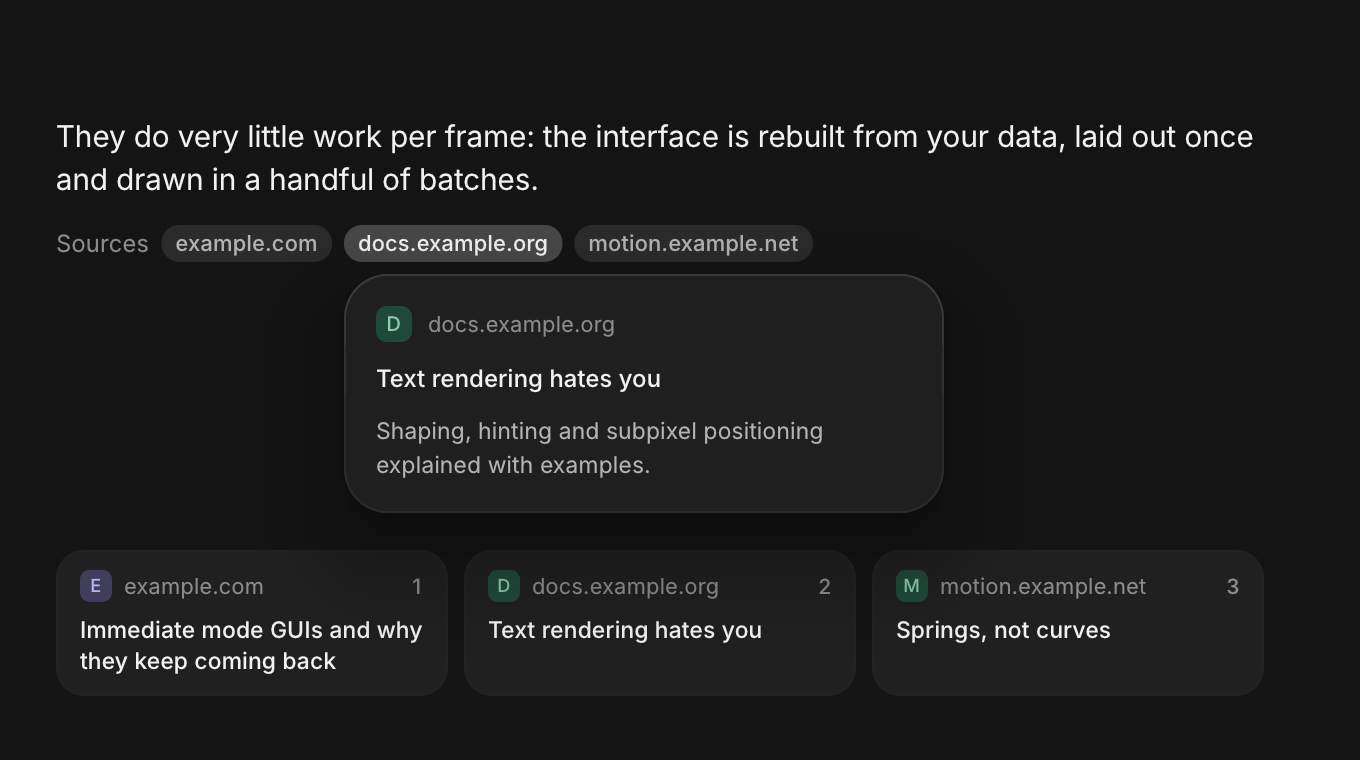
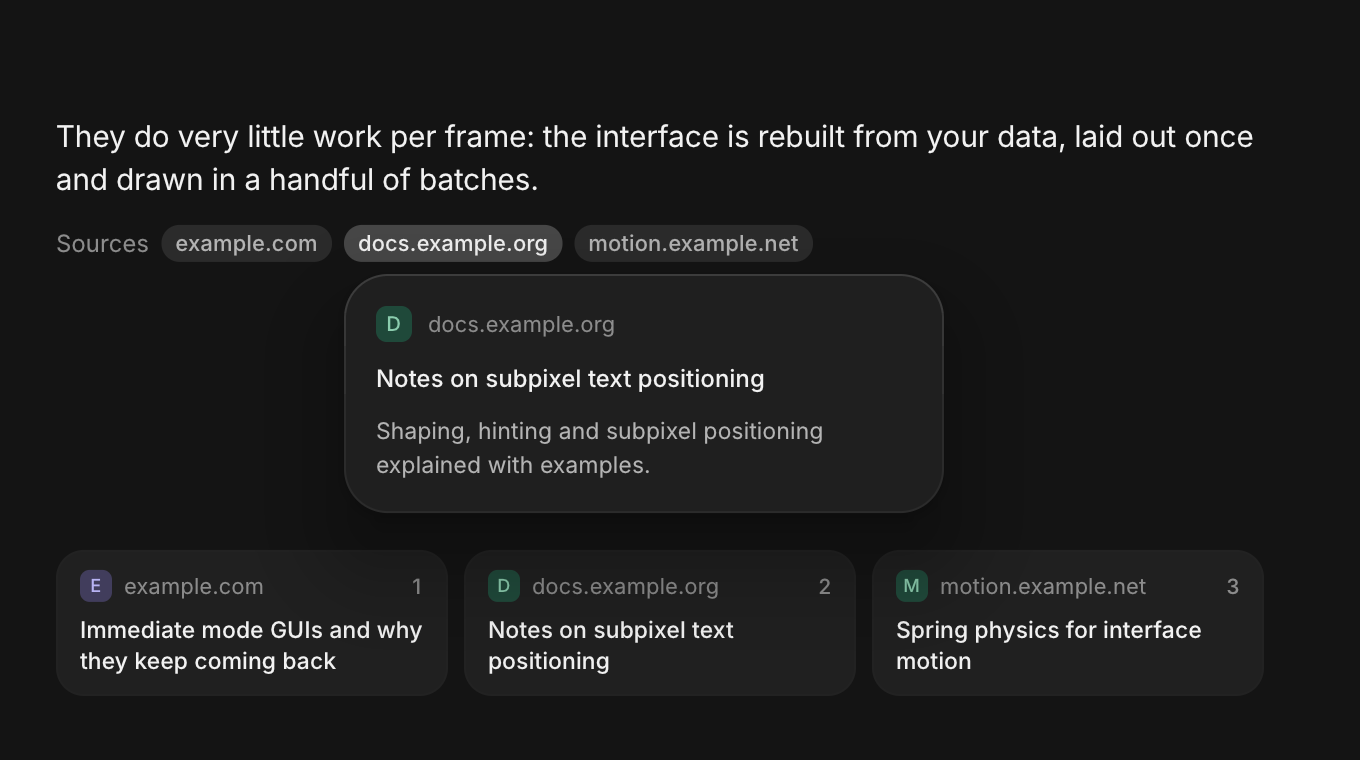
Plainer sample source titles

diff --git a/tests/component_shots.c b/tests/component_shots.c
@@ -1084,8 +1084,8 @@ SCENE(agent_plan) {
 }
 static const cui_source shot_sources[] = {
     { "Immediate mode GUIs and why they keep coming back", "https://example.com/blog/immediate-mode", "A look at retained and immediate mode toolkits and the trade offs between them." },
-    { "Text rendering hates you", "https://docs.example.org/text/rendering", "Shaping, hinting and subpixel positioning explained with examples." },
-    { "Springs, not curves", "https://motion.example.net/springs", "Why spring physics feel more natural than cubic beziers for interface motion." },
+    { "Notes on subpixel text positioning", "https://docs.example.org/text/rendering", "Shaping, hinting and subpixel positioning explained with examples." },
+    { "Spring physics for interface motion", "https://motion.example.net/springs", "Why spring physics feel more natural than cubic beziers for interface motion." },
 };
 static void body_sources(cui_ctx *ui) {
     cui_text(ui, "They do very little work per frame: the interface is rebuilt from your data, laid out once and drawn in a handful of batches.", .size = 15);

diff --git a/examples/gallery_more.c b/examples/gallery_more.c
@@ -949,8 +949,8 @@ static void page_ai(cui_ctx *ui) {
     };
     static const cui_source sources[] = {
         { "Immediate mode GUIs and why they keep coming back", "https://example.com/blog/immediate-mode", "A look at retained and immediate mode toolkits and the trade offs between them." },
-        { "Text rendering hates you", "https://docs.example.org/text/rendering", "Shaping, hinting and subpixel positioning explained with examples." },
-        { "Springs, not curves", "https://motion.example.net/springs", "Why spring physics feel more natural than cubic beziers for interface motion." },
+        { "Notes on subpixel text positioning", "https://docs.example.org/text/rendering", "Shaping, hinting and subpixel positioning explained with examples." },
+        { "Spring physics for interface motion", "https://motion.example.net/springs", "Why spring physics feel more natural than cubic beziers for interface motion." },
     };
     double now = cui_time(ui);
     if (busy && started < 0) started = now;

diff --git a/examples/assistant.c b/examples/assistant.c
@@ -27,8 +27,8 @@ static const cui_model models[] = {
 
 static const cui_source sources[] = {
     { "Immediate mode GUIs and why they keep coming back", "https://example.com/blog/immediate-mode", "Retained and immediate mode toolkits and the trade offs between them." },
-    { "Text rendering hates you", "https://docs.example.org/text/rendering", "Shaping, hinting and subpixel positioning explained with examples." },
-    { "Springs, not curves", "https://motion.example.net/springs", "Why spring physics feel more natural than cubic beziers for interface motion." },
+    { "Notes on subpixel text positioning", "https://docs.example.org/text/rendering", "Shaping, hinting and subpixel positioning explained with examples." },
+    { "Spring physics for interface motion", "https://motion.example.net/springs", "Why spring physics feel more natural than cubic beziers for interface motion." },
 };
 
 static const char *answer =

diff --git a/docs/components-more.md b/docs/components-more.md
@@ -755,7 +755,7 @@ The rail fills up to the step in progress, the running step shimmers, and the he
 <picture><source media="(prefers-color-scheme: dark)" srcset="images/components/sources-dark.png"><img src="images/components/sources.png" alt="Sources and citations"></picture>
 
 ```c
-static const cui_source sources[] = { { "Text rendering hates you", "https://docs.example.org/text", "Shaping, hinting and..." } /* ... */ };
+static const cui_source sources[] = { { "Notes on subpixel text positioning", "https://docs.example.org/text", "Shaping, hinting and..." } /* ... */ };
 for (int k = 0; k < n; k++) cui_citation(ui, k + 1, &sources[k]);   /* a chip; hover for a card */
 int open = cui_source_list(ui, "sources", sources, n);              /* cards that scroll sideways */
 ```
